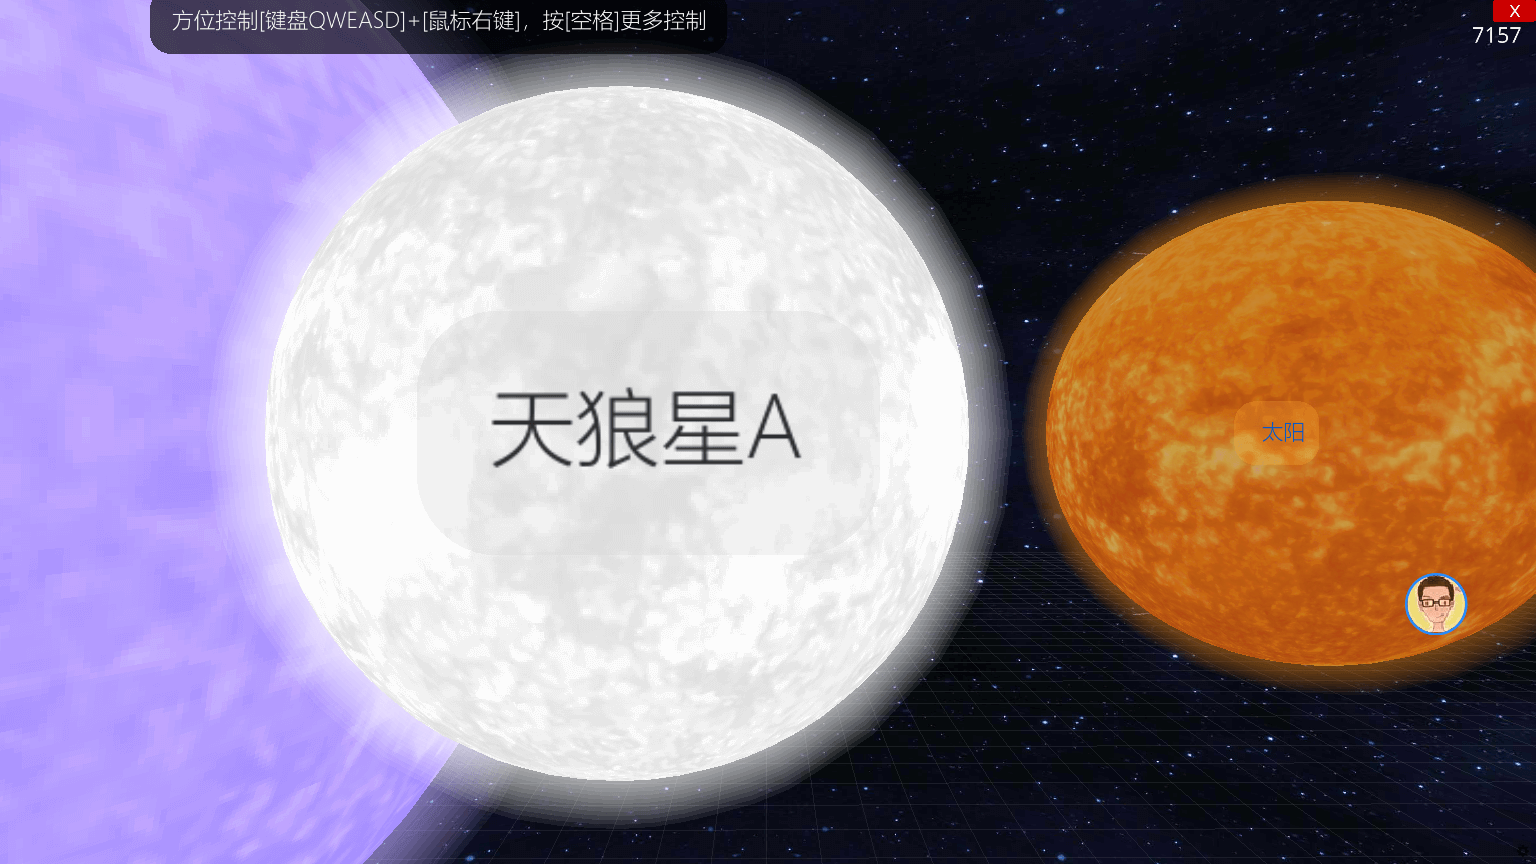
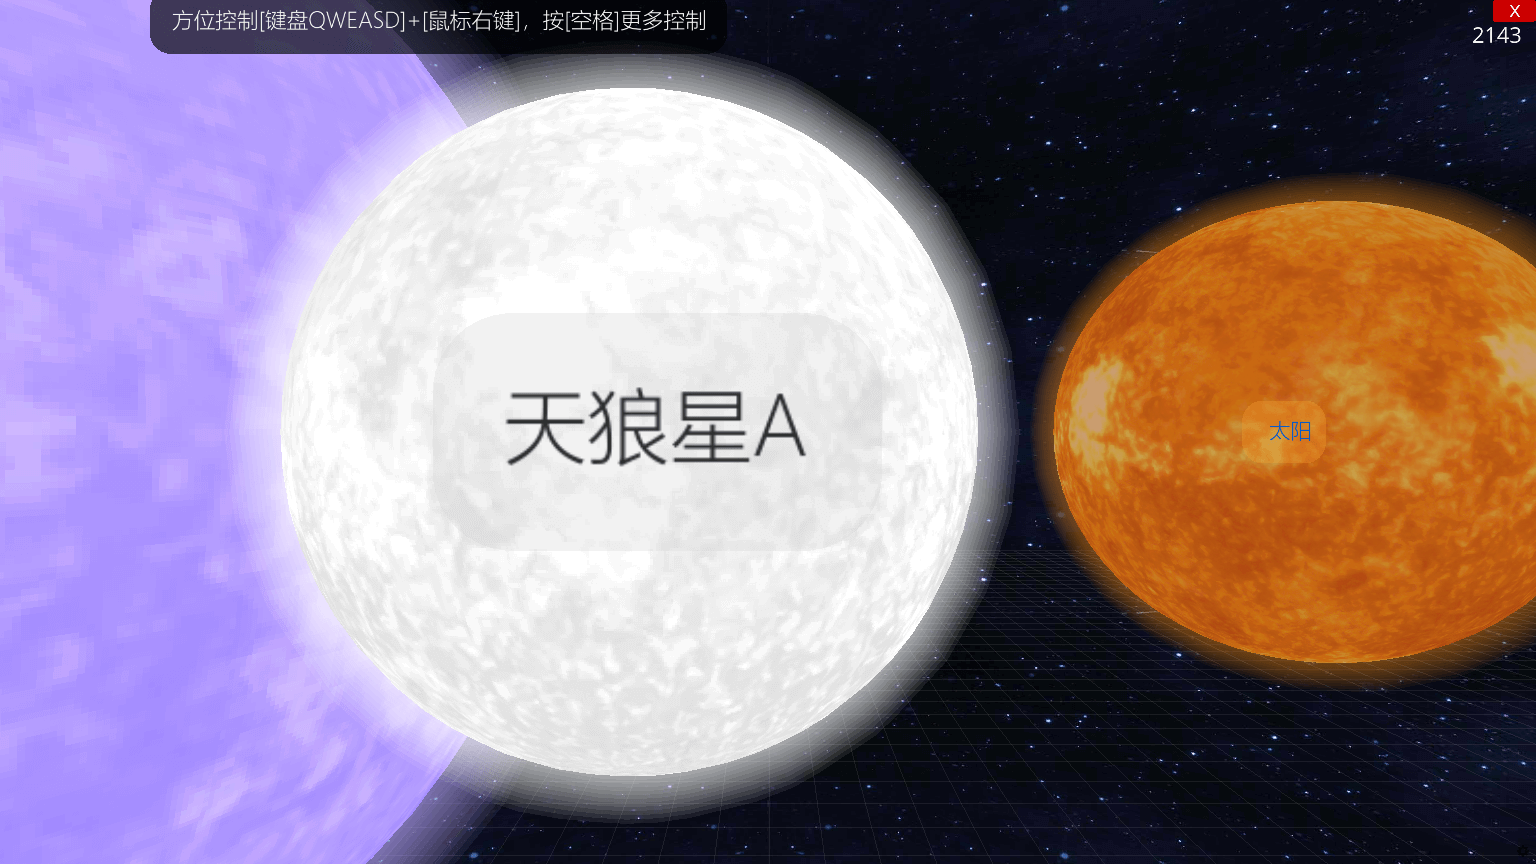
Python超人-宇宙模拟器

diff --git a/sim_scenes/solar_system/solar_system_1.py b/sim_scenes/solar_system/solar_system_1.py
@@ -20,7 +20,7 @@ if __name__ == '__main__':
     #  以下展示的效果为太阳系真实的距离
     #  由于宇宙空间尺度非常大，如果按照实际的天体大小，则无法看到天体，因此需要对天体的尺寸进行放大
     sun = Sun(name="太阳", size_scale=0.8e2)       # 太阳放大 80 倍，距离保持不变
-    sun.init_velocity = [0, 0, 2]                # 太阳带着其他行星一起跑
+    # sun.init_velocity = [0, 0, 2]                # 太阳带着其他行星一起跑
     bodies = [
         sun,
         Mercury(name="水星", size_scale=4e3),      # 水星放大 4000 倍，距离保持不变

diff --git a/simulators/ursina/ui/control_handler.py b/simulators/ursina/ui/control_handler.py
@@ -223,9 +223,9 @@ class ControlHandler(EventHandler):
                 self.ui.on_off_switch.value = self.ui.pause_button_text
             self.on_off_switch_changed()
         elif key == '+' or key == "= up":
-            self.slider_increase(self.ui.slider_run_speed_factor)
+            self.slider_increase(self.ui.slider_run_speed_factor, 0.1)
         elif key == '-' or key == "- up":
-            self.slider_decrease(self.ui.slider_run_speed_factor)
+            self.slider_decrease(self.ui.slider_run_speed_factor, 0.1)
         elif key == 'n':
             import math
             # min=0.01, max=20
